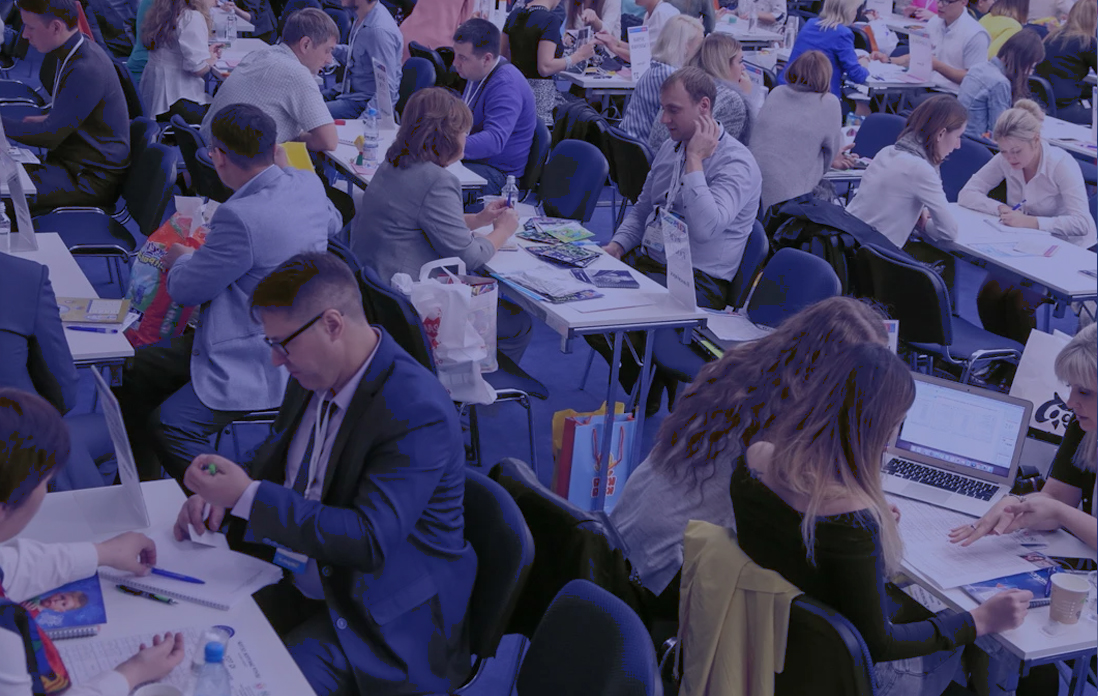
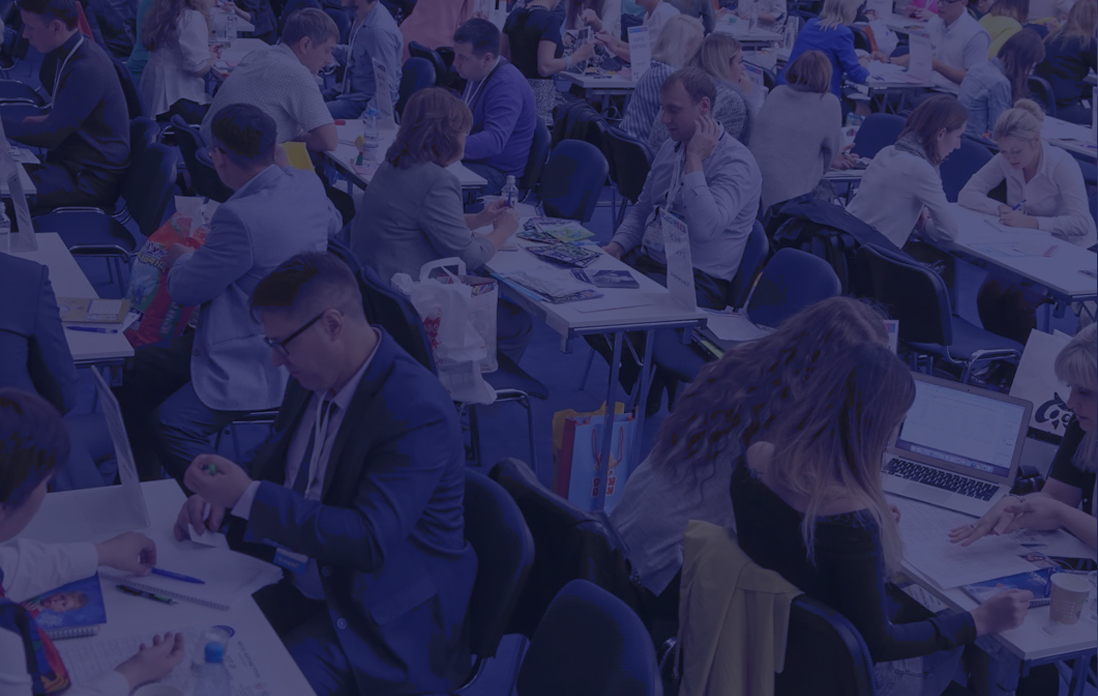
foto add

diff --git a/sailTrasker/main.css b/sailTrasker/main.css
@@ -872,7 +872,7 @@ body {
     width: 85mm;
     height: 60mm;
     margin-top: 14mm;
-    margin-left: 4mm;
+    margin-right: 4mm;
     border-radius: 4mm;
 }
 
@@ -881,7 +881,7 @@ body {
     width: 85mm;
     height: 60mm;
     margin-top: 14mm;
-    margin-left: 4mm;
+    margin-right: 4mm;
     border-radius: 4mm;
     background: #224e85 url(img/fotoFon.jpg) no-repeat center;
     background-size: cover;
@@ -920,7 +920,7 @@ body {
     width: 85mm;
     height: 60mm;
     margin-top: 4mm;
-    margin-left: 4mm;
+    margin-right: 4mm;
     border-radius: 4mm;
 }
 
